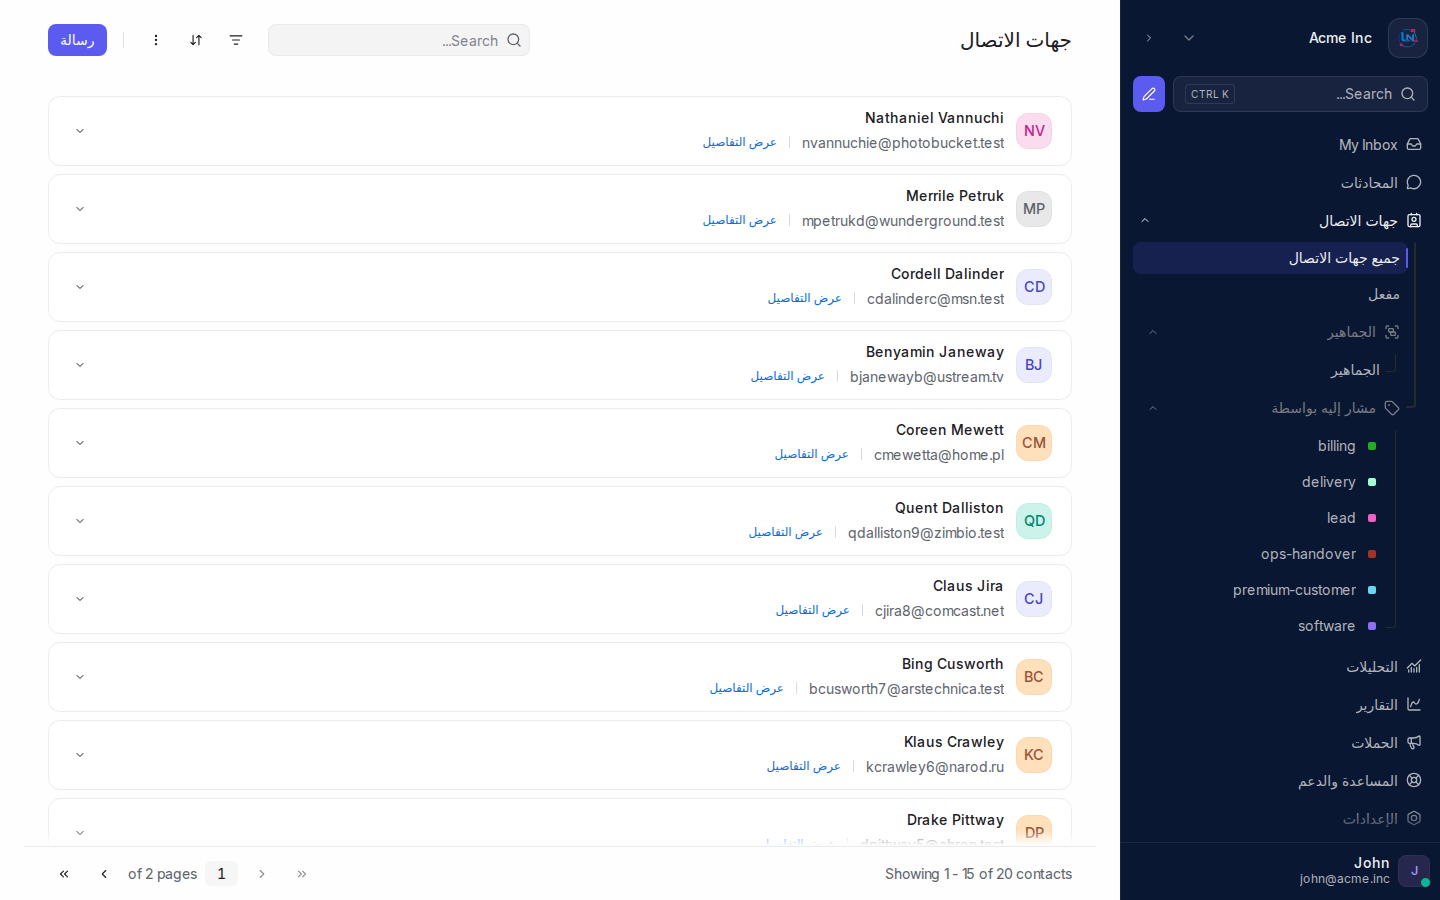
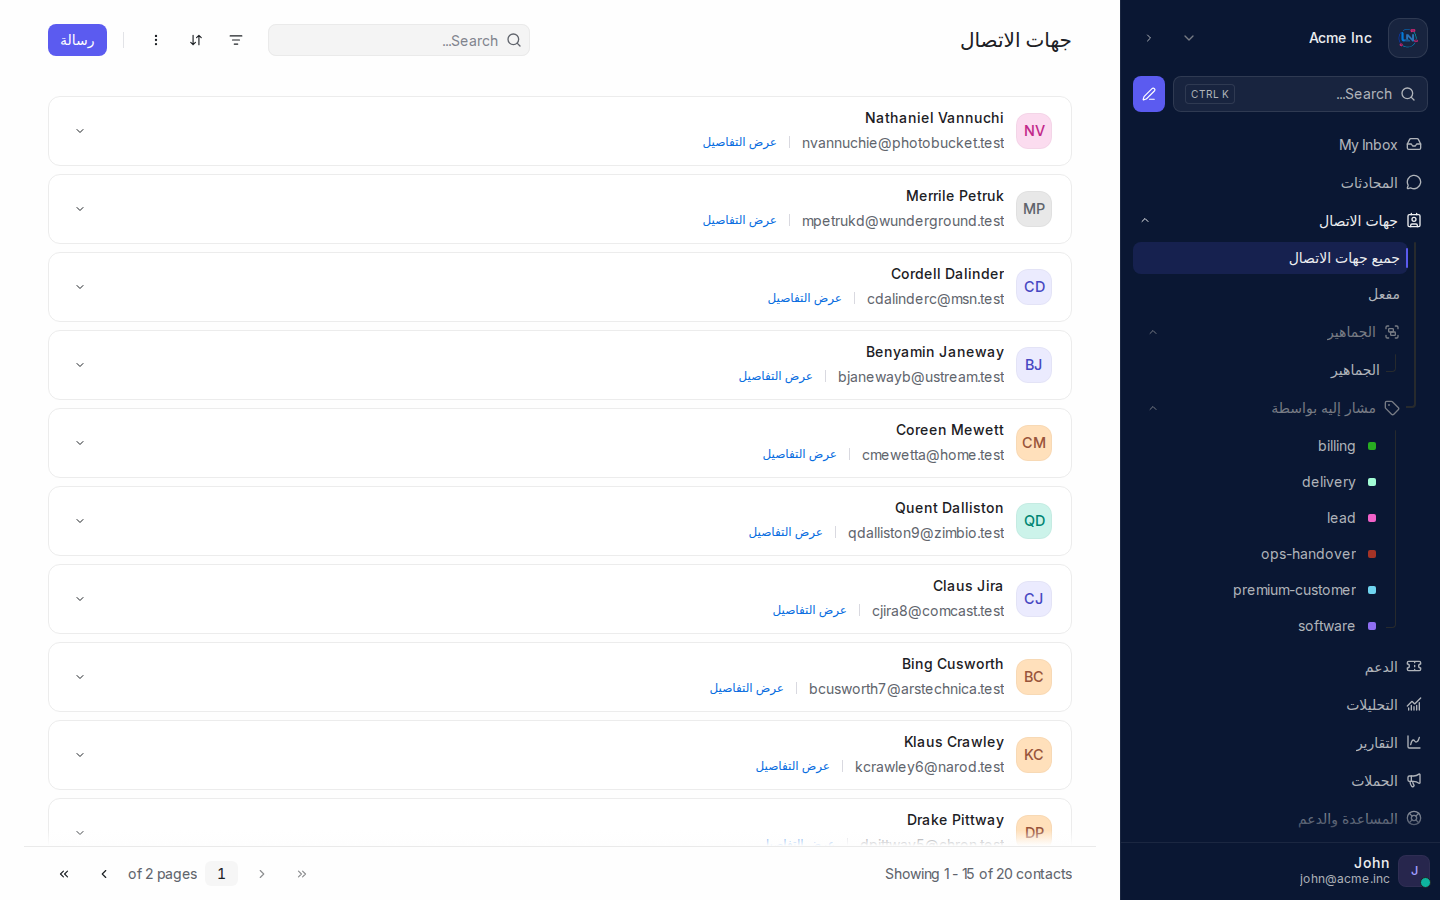
fix(marketing): stop the homepage publishing one screenshot twice, and correct Arabic copy
The homepage hero already publishes the whole conversation screen, and the
"every channel in one list" showcase below it published the same capture
again -- a page that shows one screenshot twice tells a reader the band is
decoration. The showcase now takes a new crop of the half the hero is not
about: the channel sidebar and the conversation list, where each row says
who wrote and which channel it arrived on. Both locales, mirrored for
Arabic.

Arabic copy on the same pages: the brand name was written seven different
ways and is now one, the campaigns heading was a noun phrase where every
other heading on the page is an instruction, and four automation captions
described the setting the screenshot does not show. Four feature captions
now describe what is actually in the frame.

The seeded demo contacts were sitting on live mail domains, so the
published contacts screenshot carried addresses that resolve. Re-captured
with every visible address on a .test domain.

docs/official-website/13-release-verification.md records what the same
read found in the corpus, the tooling and the rendered pages.

Claude-Session: https://claude.ai/code/session_01Qyt7wbs6rdsoHQGX2qYxHT

diff --git a/custom/db/marketing/enrichments.rb b/custom/db/marketing/enrichments.rb
@@ -28,17 +28,18 @@ flow_copy = {
             outbox_label: 'Lynomia Chat', inbox_label: 'One shared inbox' },
   'ar' => { heading: 'ستة أماكن يكتب منها عملاؤك. ومكان واحد يعمل فيه فريقك.',
             lede: 'كل رسالة تصل إلى القائمة نفسها، ومعها سجلها، من أي تطبيق جاءت.',
-            outbox_label: 'لينوميا شات', inbox_label: 'صندوق وارد واحد مشترك' }
+            outbox_label: 'لنوميا شات', inbox_label: 'صندوق وارد واحد مشترك' }
 }
 
 showcases = {
   'inbox' => {
-    :file => 'conversation-open.png', :after => 'flow', :position => 'top',
+    :file => 'figures/conversation-list.png', :after => 'flow', :position => 'top',
     'en' => {
       kicker: 'The agent workspace',
       heading: 'Read it, answer it, and see who the customer is — on one screen',
       lede: 'This is the screen your team spends the day in, photographed from the running product.',
-      alt: 'The Lynomia Chat agent workspace: the channel list, a conversation open in the middle, and the customer panel beside it.',
+      alt: 'The Lynomia Chat conversation list: the channels down the side, and a queue whose rows each say ' \
+           'who wrote and which channel the message arrived on.',
       link_label: 'What the inbox does', link_target: 'page:feature:unified_inbox',
       items: [
         ['Every channel in one list',
@@ -53,7 +54,8 @@ showcases = {
       kicker: 'مساحة عمل وكيل الدعم',
       heading: 'اقرأها، وأجب عليها، واعرف من العميل — في شاشة واحدة',
       lede: 'هذه هي الشاشة التي يقضي فيها فريقك يومه، مُصوَّرة من المنتج وهو يعمل.',
-      alt: 'مساحة عمل وكيل الدعم في لينوميا شات: قائمة القنوات، ومحادثة مفتوحة في الوسط، ولوحة العميل بجانبها.',
+      alt: 'قائمة المحادثات في لنوميا شات: القنوات على الجانب، وطابور يقول كل صفّ فيه من كتب ومن أي قناة ' \
+           'وصلت الرسالة.',
       link_label: 'ماذا يفعل الصندوق الموحّد', link_target: 'page:feature:unified_inbox',
       items: [
         ['كل القنوات في قائمة واحدة',
@@ -69,7 +71,8 @@ showcases = {
       kicker: 'Automation',
       heading: 'Say what should happen, without writing code',
       lede: 'A rule reads an event, checks the conditions you set, and takes the actions you chose.',
-      alt: 'The Lynomia Chat automation rule editor, showing an event, its conditions and the actions it runs.',
+      alt: 'The Add Automation Rule dialog in Lynomia Chat: the event that starts a rule, a condition row ' \
+           'and an action row, each waiting for the value to apply it to.',
       link_label: 'How automation rules work', link_target: 'page:feature:automation',
       items: [
         ['Trigger', 'A conversation is created, updated, resolved, or a message comes in.'],
@@ -81,7 +84,8 @@ showcases = {
       kicker: 'الأتمتة',
       heading: 'قل ما ينبغي أن يحدث، دون كتابة شيفرة',
       lede: 'القاعدة تقرأ الحدث، وتتحقق من الشروط التي ضبطتها، وتنفّذ الإجراءات التي اخترتها.',
-      alt: 'محرر قواعد الأتمتة في لينوميا شات، ويظهر فيه الحدث وشروطه والإجراءات التي ينفّذها.',
+      alt: 'نافذة إضافة قاعدة أتمتة في لنوميا شات: الحدث الذي يبدأ القاعدة، وصفّ شرط وصفّ إجراء، ' \
+           'وكلٌّ منهما ينتظر القيمة التي يُطبَّق عليها.',
       link_label: 'كيف تعمل قواعد الأتمتة', link_target: 'page:feature:automation',
       items: [
         ['المُطلِق', 'إنشاء محادثة، أو تحديثها، أو حلّها، أو وصول رسالة.'],
@@ -108,7 +112,7 @@ showcases = {
       kicker: 'التقارير',
       heading: 'اعرف كيف يسير أداء الفريق فعلاً',
       lede: 'حجم المحادثات، وأزمنة الرد والحل، وكيف يتوزّع الحمل على وكلاء الدعم والفرق.',
-      alt: 'شاشة التقارير في لينوميا شات، وتظهر فيها مؤشرات المحادثات خلال مدى زمني محدد.',
+      alt: 'شاشة التقارير في لنوميا شات، وتظهر فيها مؤشرات المحادثات خلال مدى زمني محدد.',
       link_label: 'ماذا تغطّي التقارير', link_target: 'page:feature:analytics',
       items: [
         ['رشّح وقارن', 'بالمدى الزمني أو القناة أو الفريق أو وكيل الدعم أو الوسم.'],
@@ -201,7 +205,7 @@ assist_band = {
 hero_alt = {
   'en' => 'The Lynomia Chat agent workspace: the channel list on one side, a customer conversation open ' \
           'in the middle, and the contact panel beside it.',
-  'ar' => 'مساحة عمل وكيل الدعم في لينوميا شات: قائمة القنوات في جانب، ومحادثة عميل مفتوحة في الوسط، ولوحة جهة الاتصال بجانبها.'
+  'ar' => 'مساحة عمل وكيل الدعم في لنوميا شات: قائمة القنوات في جانب، ومحادثة عميل مفتوحة في الوسط، ولوحة جهة الاتصال بجانبها.'
 }
 
 # THE SECTION SKELETONS, hoisted out of the loop. A frozen literal rebuilt on every pass is the same object
@@ -232,8 +236,12 @@ enrichments = []
       key: "home.showcase.#{name}.#{locale}", locale: locale, slug: 'home', after: spec[:after],
       # A `figures/` PREFIX MEANS A CROP, not the whole screen. `docs/screenshots/figures.json` says what
       # each one is a crop of and why; `node tools/visual/crop.mjs` regenerates them and `--check` fails if
-      # one is stale. The inbox showcase is the exception and takes the untouched capture: it is published
-      # across the full measure, where a whole screen is legible and is the point.
+      # one is stale.
+      #
+      # THE INBOX SHOWCASE TOOK THE WHOLE CAPTURE UNTIL THE HOMEPAGE WAS LOOKED AT AS A PAGE. `home.hero-shot`
+      # names the same file, `PageEnrichment.resolve_image` matches an existing attachment by basename, so both
+      # ended up holding ONE attachment id and the homepage published the identical 1440x900 screenshot twice.
+      # The showcase now takes a crop of the half the hero is not about -- the channel sidebar and the list.
       image: { file: if spec[:file].start_with?('figures/')
                        "docs/screenshots/figures/marketing/#{locale}/#{spec[:file].delete_prefix('figures/')}"
                      else
@@ -315,7 +323,7 @@ detail_showcases = {
     'ar' => {
       kicker: 'صندوق واحد', heading: 'كل القنوات في قائمة واحدة',
       lede: 'واتساب ودردشة الموقع والبريد وتيليجرام وغيرها تصل إلى المكان نفسه، بترتيب وصولها، ومعها العميل.',
-      alt: 'قائمة المحادثات في لينوميا تشات إلى جوار محادثة مفتوحة وصندوق الرد.',
+      alt: 'قائمة المحادثات في لنوميا شات إلى جوار محادثة مفتوحة وصندوق الرد.',
       link_label: 'كيف تعمل في صندوق الوارد',
       items: [['قائمة واحدة', 'رشّح بالقناة أو الإسناد أو الحالة أو التصنيف أو الأولوية.'],
               ['سجل واحد', 'كل محادثات جهة الاتصال، على أي قناة، في مكان واحد.'],
@@ -339,7 +347,7 @@ detail_showcases = {
     'ar' => {
       kicker: 'دردشة الموقع', heading: 'فقاعة دردشة على موقعك أنت، بلونك أنت',
       lede: 'وسم برمجي واحد. ينقر الزائر، ويكتب، فتهبط الرسالة في الصندوق الذي يعمل فيه فريقك أصلاً.',
-      alt: 'صفحة متجر وأداة لينوميا تشات مفتوحة في الزاوية، وفيها العنوان الترحيبي وزر "ابدأ المحادثة".',
+      alt: 'صفحة متجر وأداة لنوميا شات مفتوحة في الزاوية، وفيها العنوان الترحيبي وزر "ابدأ المحادثة".',
       link_label: 'جهّز دردشة الموقع',
       items: [['كلماتك', 'العنوان والافتتاحية ووقت الرد كلها تكتبها أنت.'],
               ['هويتك', 'الفقاعة تأخذ لون الموقع الذي تجلس عليه.'],
@@ -352,8 +360,8 @@ detail_showcases = {
     'en' => {
       kicker: 'Automation', heading: 'Say what should happen, without writing code',
       lede: 'An event, some conditions, and the actions to take. The rule dialog is the whole of it.',
-      alt: 'The automation rule dialog: the event that starts it, the conditions it checks, and the ' \
-           'actions it takes.',
+      alt: 'The automation rule dialog: the event that starts it, and the rows where a condition and an ' \
+           'action are built, their values not yet chosen.',
       link_label: 'How automation rules work',
       items: [['On arrival', 'Label, assign, reply or escalate the moment a message lands.'],
               ['On a delay', 'Re-check the conditions when the clock runs out, and act only if they still hold.'],
@@ -362,7 +370,7 @@ detail_showcases = {
     'ar' => {
       kicker: 'الأتمتة', heading: 'قل ما ينبغي أن يحدث، دون كتابة شيفرة',
       lede: 'حدث، وبعض الشروط، والإجراءات التي تُتخذ. ونافذة القاعدة هي كل الأمر.',
-      alt: 'نافذة قاعدة الأتمتة: الحدث الذي يبدؤها، والشروط التي تفحصها، والإجراءات التي تتخذها.',
+      alt: 'نافذة قاعدة الأتمتة: الحدث الذي يبدؤها، والصفوف التي يُبنى فيها الشرط والإجراء، وقيمها لم تُختر بعد.',
       link_label: 'كيف تعمل قواعد الأتمتة',
       items: [['عند الوصول', 'صنّف أو أسند أو ردّ أو صعّد لحظة هبوط الرسالة.'],
               ['بعد تأجيل', 'أعد فحص الشروط حين تنتهي الساعة، ولا تتصرّف إلا إن بقيت قائمة.'],
@@ -407,7 +415,7 @@ detail_showcases = {
               ['An outcome', 'Addressed, sent, delivered, read, failed and skipped, per campaign.']]
     },
     'ar' => {
-      kicker: 'الحملات', heading: 'اصل إلى مجموعة عن قصد، وانظر ماذا حدث',
+      kicker: 'الحملات', heading: 'اختر مجموعة وأرسل إليها عن قصد، وانظر ماذا حدث',
       lede: 'اختر جمهوراً، واختر قالباً معتمداً، وأرسل — ثم اقرأ من استلم ومن لم يستلم.',
       alt: 'قائمة حملات واتساب، وفيها كل حملة وجمهورها وحالتها.',
       link_label: 'كيف تعمل حملات واتساب',

diff --git a/docs/official-website/13-release-verification.md b/docs/official-website/13-release-verification.md
@@ -136,6 +136,50 @@ rendered on the default side -- the operator's edit discarded in silence, while 
 walkthrough on the same form was refused. The check now reads the type's own field list, so the next type
 to declare the field is covered without anyone remembering this.
 
+## What the same read found in the corpus, the tooling and the rendered pages
+
+A second and third pass over the branch, by dimension. Everything below is fixed in it.
+
+**Nine Arabic articles had no step lists at all.** They wrote their procedures as `١.` `٢.` `٣.`, and
+CommonMark recognises only ASCII digits as an ordered-list marker — so each list was one run-on paragraph
+with the numerals inline, while the English sibling rendered an `<ol>`. Measured with the repo's own parser:
+`ar/connect-telegram` parsed as 0 lists before and 4 lists / 13 items after, which is what its English
+sibling parses.
+
+**The Arabic chat-bubble screenshot was the English one, byte for byte** — the only identical pair in the
+media tree. The cause was structural rather than careless: the demo shop the widget sits on was hardcoded
+`lang="en"`, and the closed launcher carries no text, so an Arabic capture of it could not differ. The host
+page now takes its language from the capture script, which keeps the install snippet in a single file.
+
+**Three articles described a product that is not this one.** An Articles tab in search, which
+`help_center: enabled: false` removes for every account in this fork; a three-character search minimum that
+`SearchInput.vue` sets at two, with an all-digit exception the article's own search-by-id advice depends on;
+and three toggles placed in Widget features that `Settings.vue` puts in Channel Preferences.
+
+**`crop.mjs --check` could not pass on any machine but the one that generated the figures.** It compared
+modification times, and git records none: a clone writes files at checkout in index order, and `figures/`
+sorts before `sources/`. It is a documented release step. Each figure now carries its source's SHA-256.
+
+**The README promised no source holds a token, and two do.** The install-snippet captures show the seeded
+website token in clear text, because that is the screen the figure is of. The figure redacts it and the
+value authorises nothing beyond a local seed on `localhost:3000` — but the blanket claim is what the next
+reviewer would trust, so it now says what is true.
+
+**The homepage published one screenshot twice.** The hero and the inbox showcase named the same file, and
+`PageEnrichment.resolve_image` matches an existing attachment by basename, so both held one attachment id.
+The showcase now takes a crop of the half the hero is not about — the channel sidebar and the conversation
+list, which is what its first claim is about. Both homepages now render four distinct images.
+
+**Five seeded demo contacts had fabricated local-parts at live mail domains** (`comcast.net`, `home.pl`,
+`ustream.tv`, `narod.ru`, `exblog.jp`), and that screen is published whole on a public marketing page. Moved
+onto the reserved `.test` TLD and re-captured; every address in the published list now ends `.test`.
+
+**Three Arabic strings were wrong rather than merely awkward.** Two spellings of the product name that are
+neither the site's own (`لنوميا شات`, which `marketing.ar.yml` sets and every page title renders); a heading
+whose imperative was written `اصل`, which an Arabic reader parses first as the noun *aṣl*; and alt text on
+the automation figure claiming conditions and actions the picture does not contain — it shows the rows with
+their values unchosen, and the alt now says so.
+
 ## Found, and deliberately not fixed here
 
 **Relative times in the Arabic dashboard are in English.** `dynamicTime` in

diff --git a/docs/screenshots/figures/README.md b/docs/screenshots/figures/README.md
@@ -29,3 +29,15 @@ each one below says which part of which screen it is, and why that part.
 - **file** `docs/screenshots/figures/marketing/ar/reports-overview.png`
 - **from** `docs/screenshots/sources/marketing/ar/reports.png` at 32,64, 1056x600
 - **why** The Arabic counters and the same week of traffic. Mirrored from the English box for the same reason.
+
+## `home/inbox-list`
+
+- **file** `docs/screenshots/figures/marketing/en/conversation-list.png`
+- **from** `docs/screenshots/sources/marketing/en/conversation-open.png` at 0,0, 680x620
+- **why** The channel sidebar and the conversation list, which is what 'every channel in one list' means: each row says who wrote and which channel it arrived on. The homepage HERO already publishes this same capture whole, and a page that shows one screenshot twice tells a reader the band is decoration -- so the showcase takes the half the hero is not about.
+
+## `home/inbox-list-ar`
+
+- **file** `docs/screenshots/figures/marketing/ar/conversation-list.png`
+- **from** `docs/screenshots/sources/marketing/ar/conversation-open.png` at 760,0, 680x620
+- **why** The channel sidebar and the conversation list, which is what 'every channel in one list' means: each row says who wrote and which channel it arrived on. The homepage HERO already publishes this same capture whole, and a page that shows one screenshot twice tells a reader the band is decoration -- so the showcase takes the half the hero is not about. Mirrored: in Arabic the sidebar and the list are on the right of the window.
